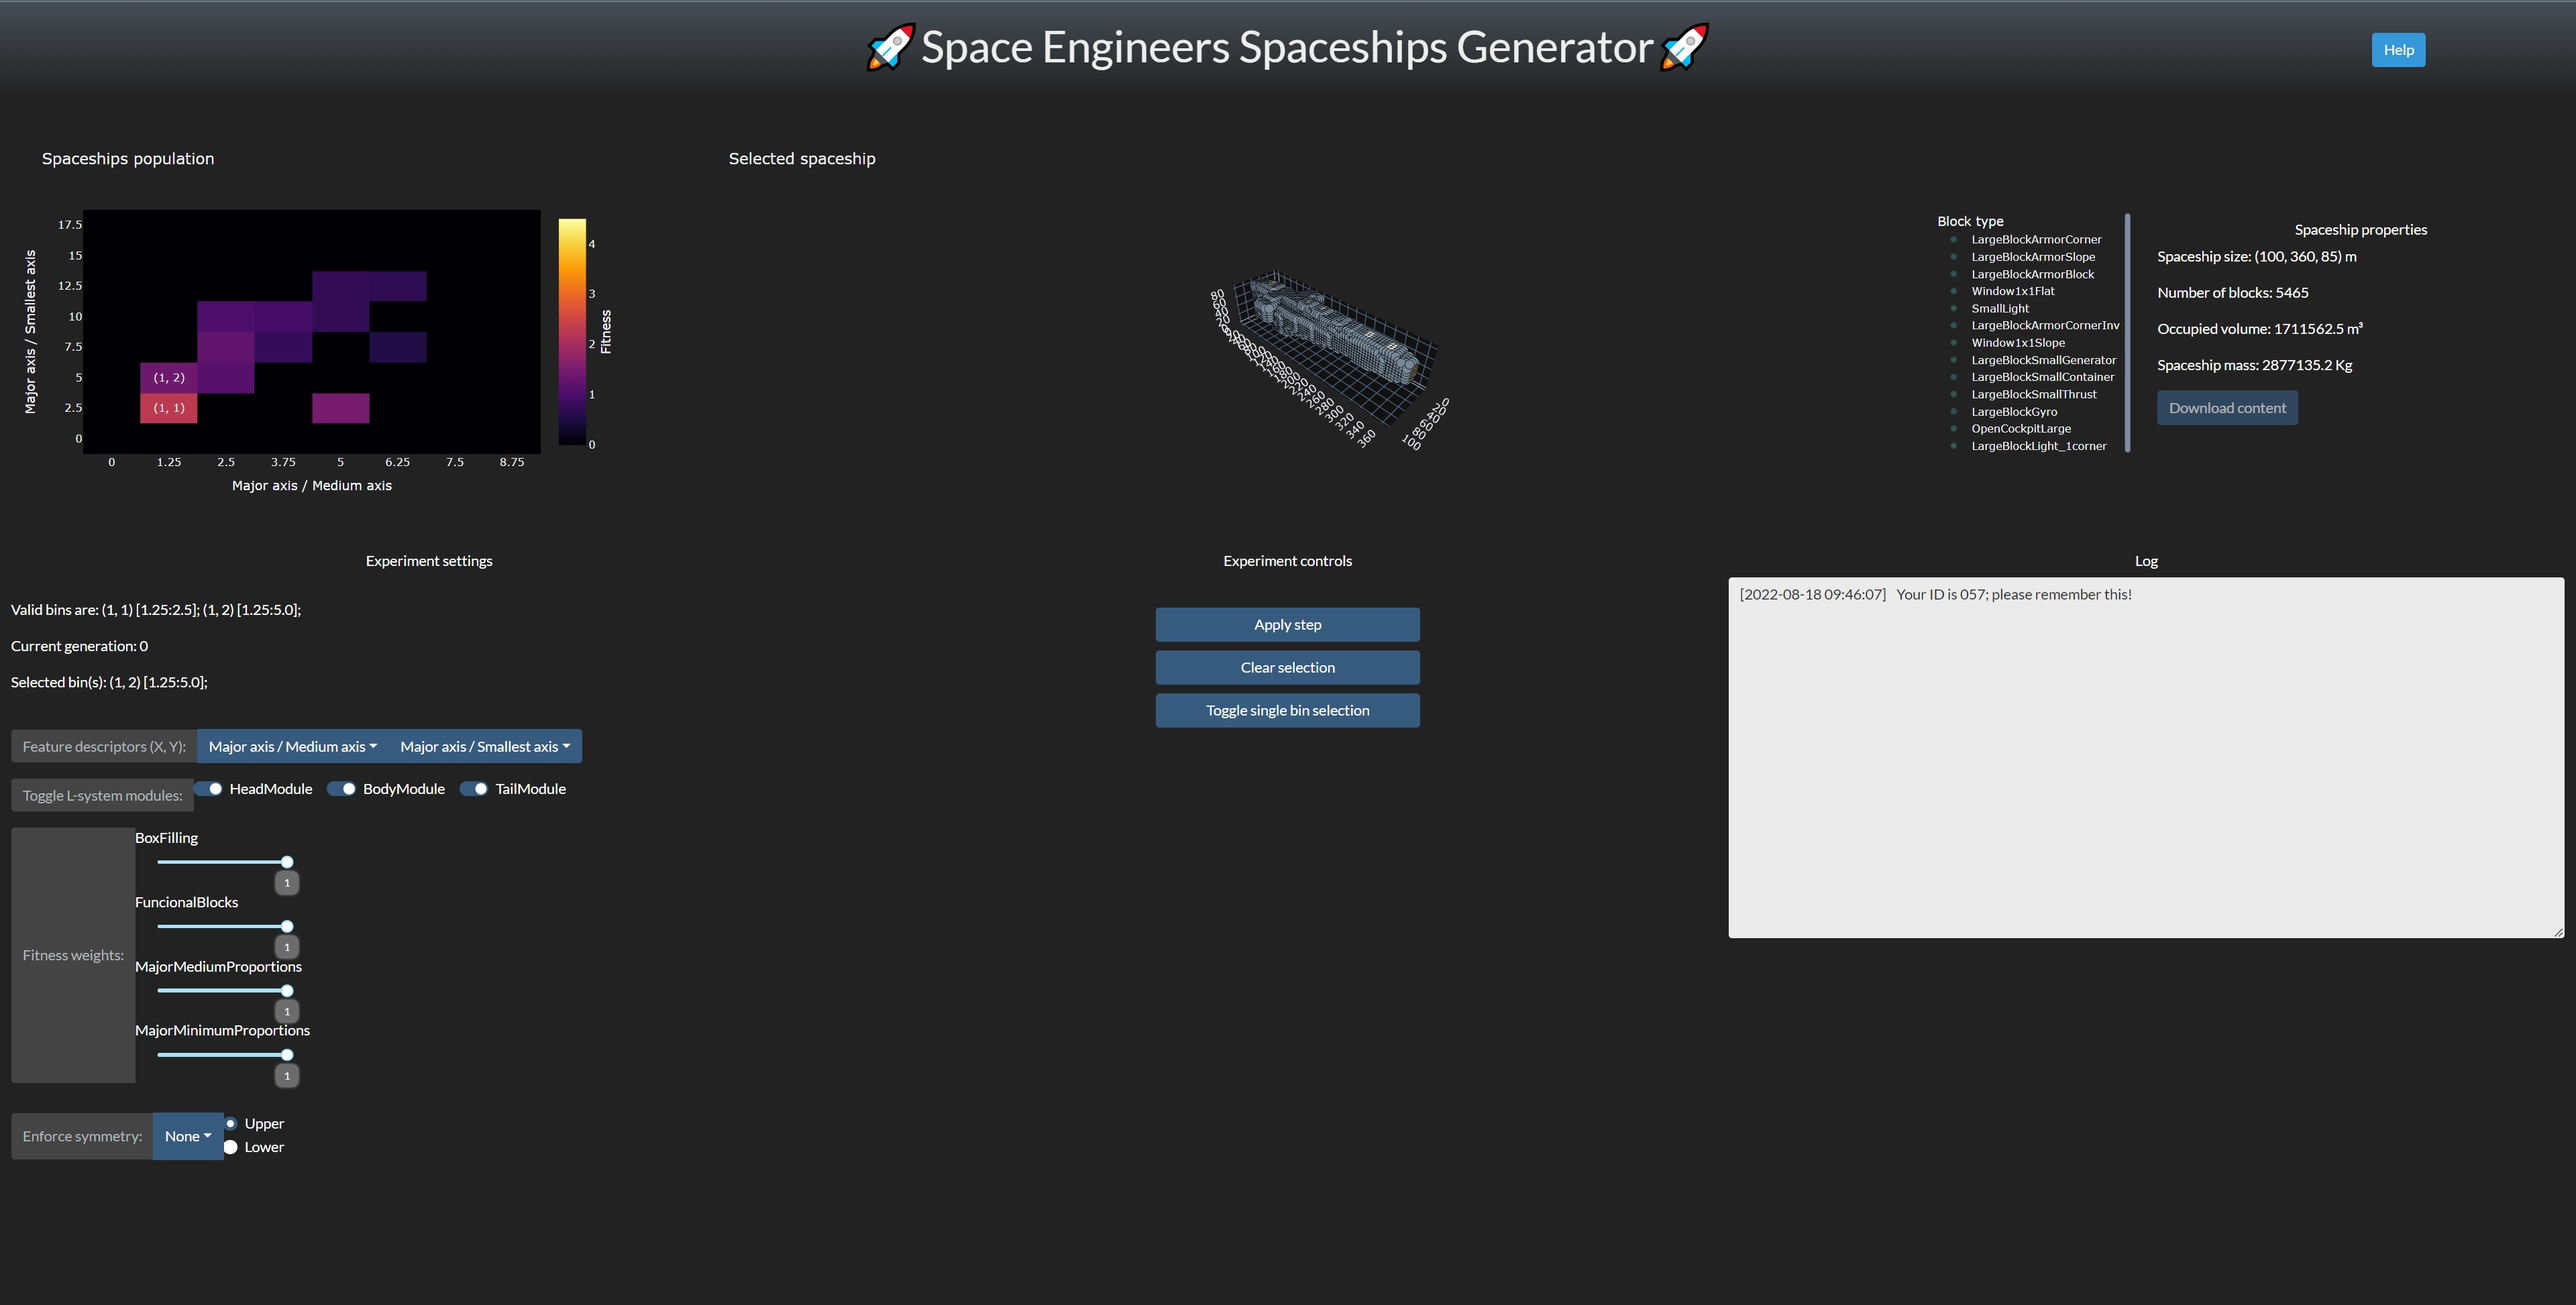
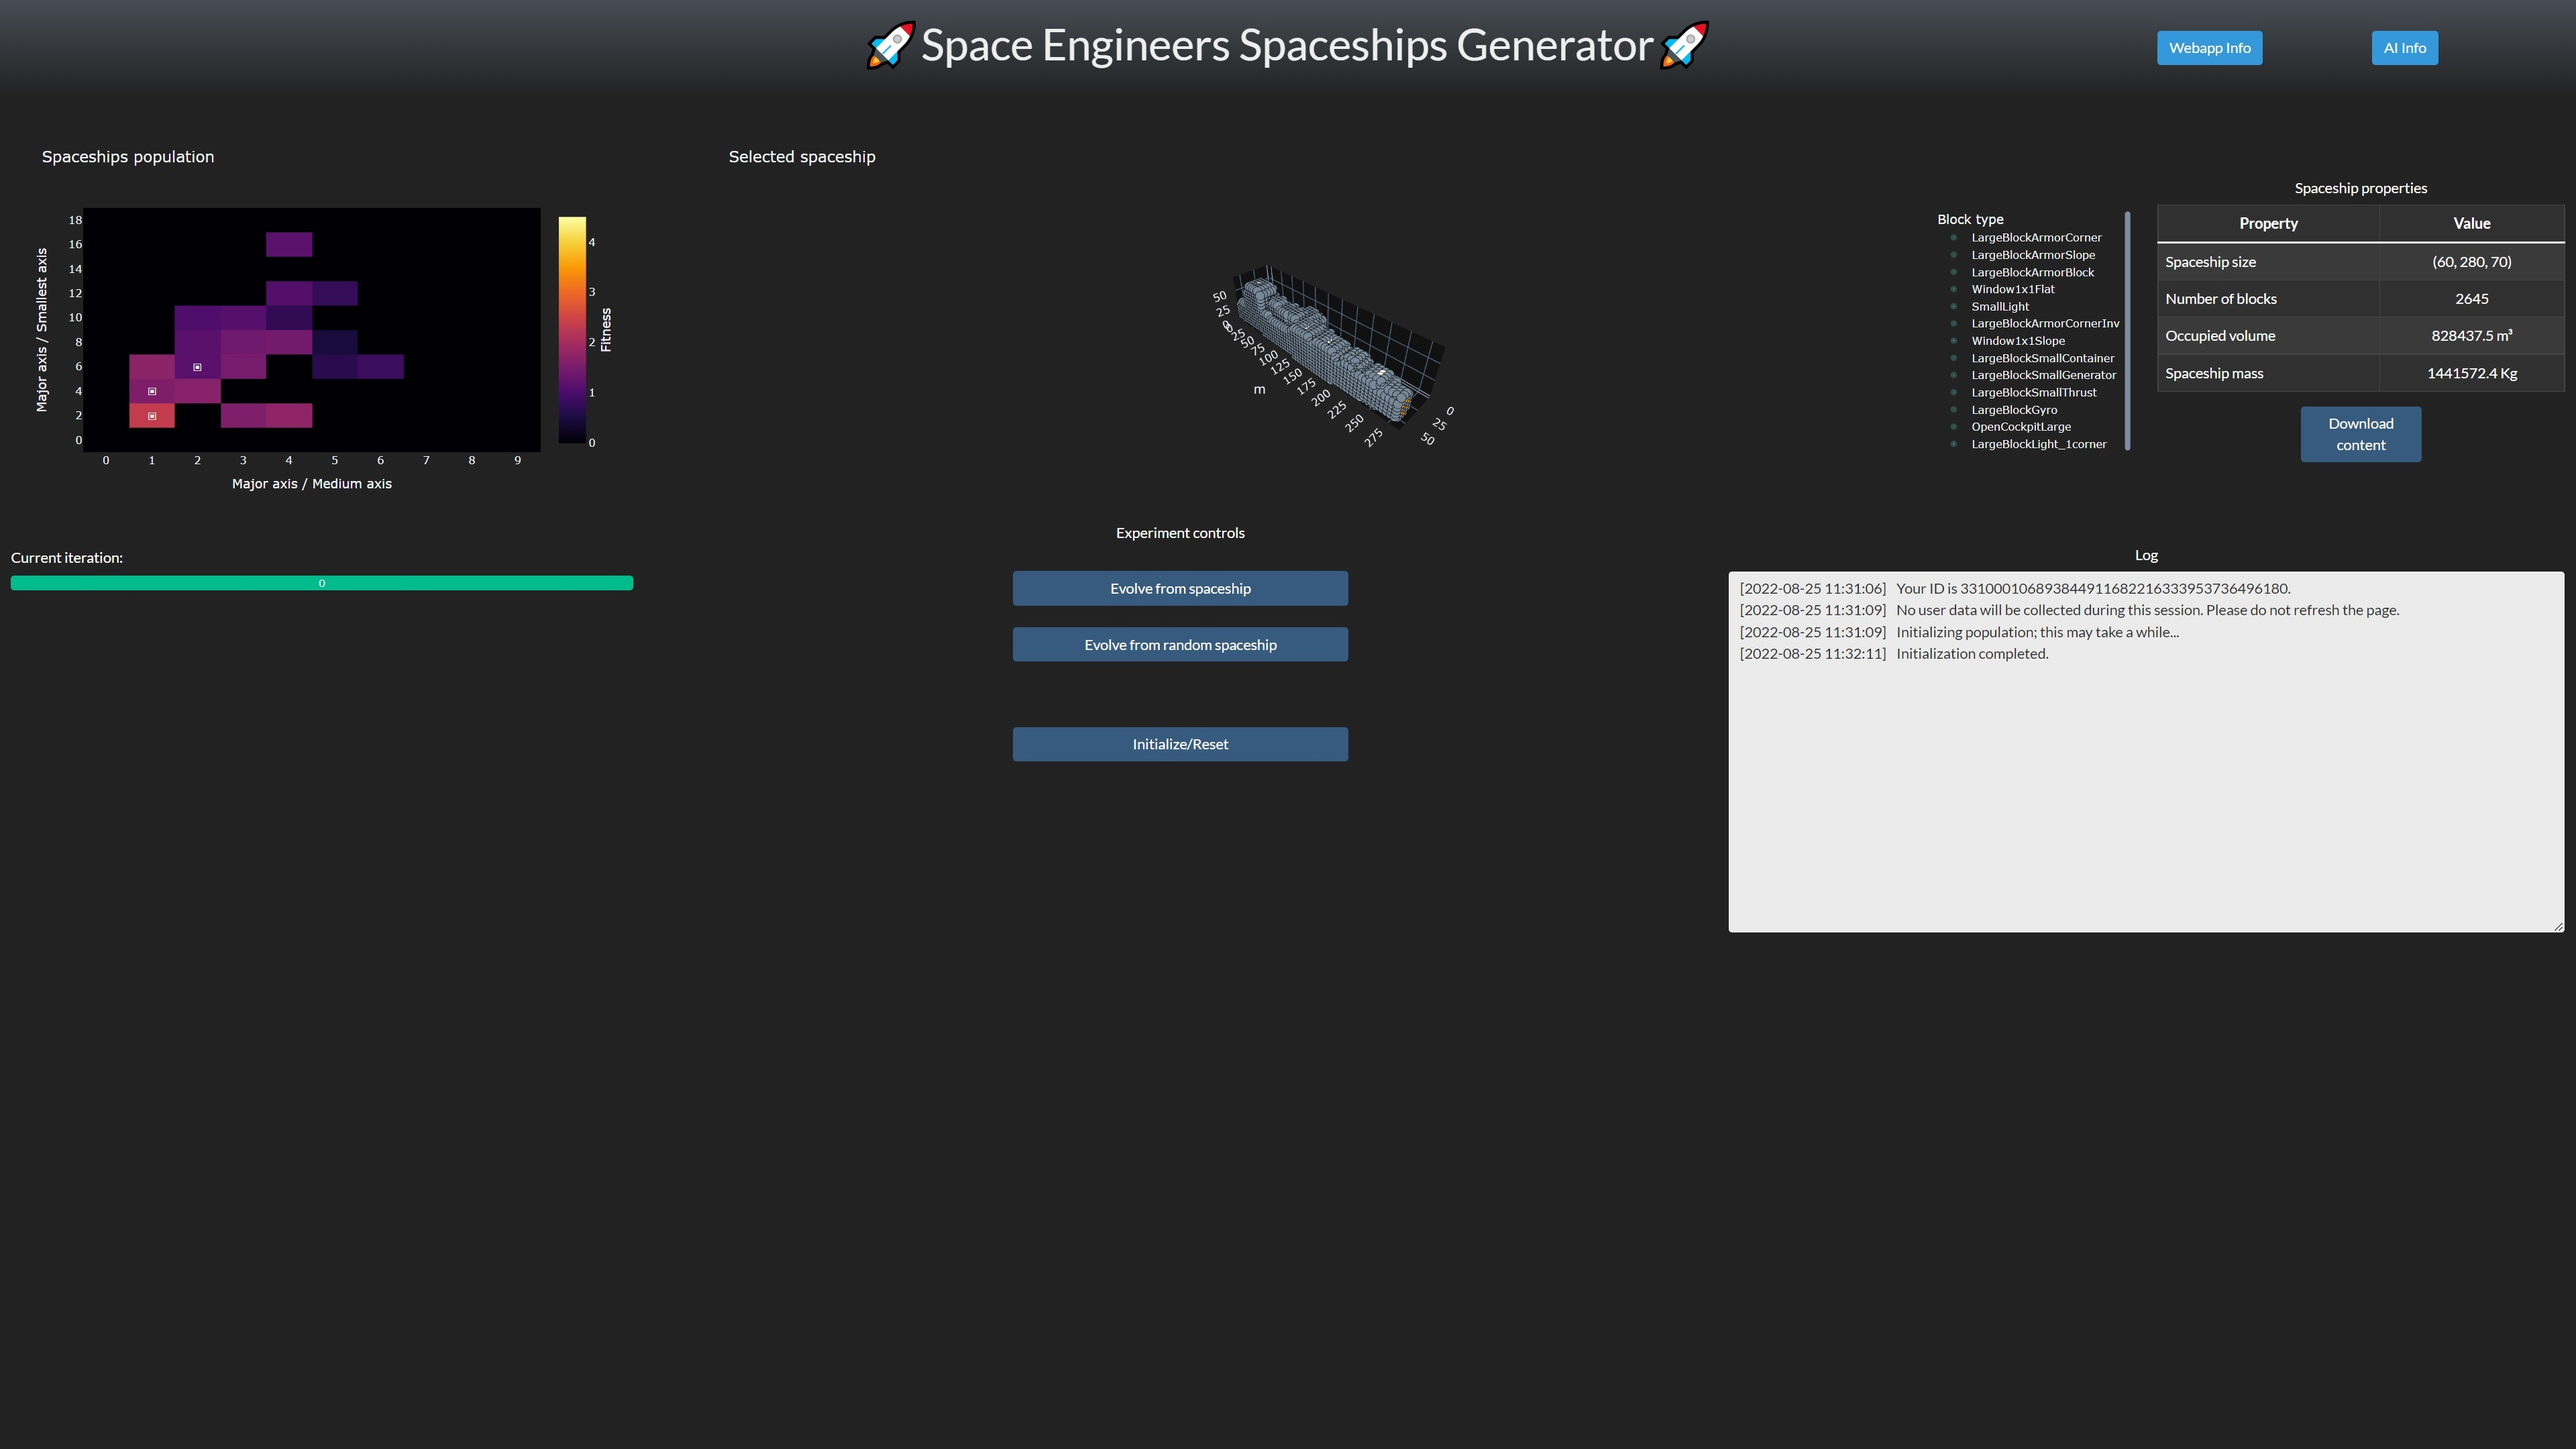
Update readme, webapp bugfix
Bugfix for the webapp in dev mode, update readme with webapps previews.

diff --git a/user-study/main_webapp_launcher.py b/user-study/main_webapp_launcher.py
@@ -8,10 +8,8 @@ if getattr(sys, 'frozen', False) and hasattr(sys, '_MEIPASS'):
     os.chdir(sys._MEIPASS)
 
 import argparse
-import random
 import webbrowser
 
-from pcgsepy.common.jsonifier import json_loads
 from pcgsepy.config import BIN_N
 from pcgsepy.evo.fitness import (Fitness, box_filling_fitness,
                                  func_blocks_fitness, mame_fitness,
@@ -24,7 +22,7 @@ from pcgsepy.mapelites.behaviors import (BehaviorCharacterization, avg_ma,
 from pcgsepy.setup_utils import get_default_lsystem, setup_matplotlib
 from pcgsepy.mapelites.buffer import Buffer, mean_merge
 from pcgsepy.mapelites.map import MAPElites
-from pcgsepy.mapelites.emitters import ContextualBanditEmitter, HumanEmitter
+from pcgsepy.mapelites.emitters import RandomEmitter
 from pcgsepy.nn.estimators import MLPEstimator
 
 
@@ -108,7 +106,7 @@ mapelites = MAPElites(lsystem=lsystem,
                       buffer=buffer,
                       behavior_descriptors=behavior_descriptors,
                       n_bins=BIN_N,
-                      emitter=HumanEmitter())
+                      emitter=RandomEmitter())
 
 set_callback_props(mapelites=mapelites)
 

diff --git a/pcgsepy/guis/main_webapp/webapp.py b/pcgsepy/guis/main_webapp/webapp.py
@@ -235,11 +235,13 @@ def set_app_layout(mapelites: Optional[MAPElites] = None,
     with open(quickstart_info_file, 'r', encoding='utf-8') as f:
         quickstart_info_str = f.read()
     
-    rngseed = uuid.uuid4().int
-    random.seed(rngseed)
-    random.shuffle(my_emitterslist)
     current_mapelites = mapelites
-    current_mapelites.emitter = _get_emitter()
+    
+    rngseed = uuid.uuid4().int
+    if not gdev_mode:
+        random.seed(rngseed)
+        random.shuffle(my_emitterslist)
+        current_mapelites.emitter = _get_emitter()
     
     logging.getLogger('webapp').info(msg=f'Your ID is {rngseed}.')
     
@@ -373,7 +375,8 @@ def set_app_layout(mapelites: Optional[MAPElites] = None,
                              color='success',
                              striped=False,
                              animated=False)],
-                     id='exp-progress-div')
+                     id='exp-progress-div',
+                     style={'visibility': 'hidden', 'height': '0px'} if gdev_mode else {})
         ])
     
     mapelites_heatmap = html.Div(children=[

diff --git a/README.md b/README.md
@@ -12,7 +12,9 @@
 Research code for the Space Engineers PCG project developed under the GoodAI research grant.
 
 ## Installation
-Create the executable file by running the `build_main_webapp.bat` file inside the `user-study` folder. The executable file (`Space Engineers PCG.exe`) will be created in the `user-study\dist` folder.
+The application can be built using the provided `.bat` files placed in the `user-study` folder. The executable files will be created in the `user-study\dist` folder.
+
+You can build just the main web application (running `build_main_webapp.bat`) or also the spaceships ranker (running `build_comparator.bat`). Keep in mind that the latter is used only for the user study.
 
 ### Modifiable files
 Some files can be modified before building the application. These are:
@@ -22,11 +24,31 @@ Some files can be modified before building the application. These are:
 - `hlrules`, `llrules`: these files define the expansion rules of the underlying L-system used in the application. `hlrules` determines the tile placements when creating spaceships, whereas `llrules` determines the game blocks used in a tile. If you want to add your own tiles in the application, please follow the instructions reported in `l-system\rules-extractor.ipynb` and remember to also update the `hl_atoms.json` file.
 
 ## How to use the webapp
+All modes of the webapps have a handy "*Info*" button, but the following is a quick overview of how they work.
+
+### Main webapp - user study mode
+<p align="center">
+  <img src="media/UI_userstudy_preview.jpg" alt="ui_userstudy_preview" height="300"/>
+</p>
+This mode is used during the user study and allows only to evolve spaceships after selecting a valid bin. The user study has a predefined number of generations (iterations) allowed and spans different configurations of the MAP-Elites emitter. At the end of the user study, the application automatically switches over to `user mode`.
+
+### Main webapp - user mode
 <p align="center">
   <img src="media/UI_usermode_preview.jpg" alt="ui_usermode_preview" height="300"/>
 </p>
+In this mode, the user is allowed to evolve spaceships indefinitely, choosing between evolving from the selected bin or running multiple steps of the random emitter at once. Additionally, the user is allowed to reset the population of solutions.
 
-_TODO: write this section of the README._
+### Main webapp - developer mode
+<p align="center">
+  <img src="media/UI_devmode_preview.jpg" alt="ui_devmode_preview" height="300"/>
+</p>
+This is the most advanced mode, giving the user full access to every part of the system that can be changed during the evolution process.
+
+### Ranker webapp
+<p align="center">
+  <img src="media/UI_comparator_preview.jpg" alt="ui_comparator_preview" height="300"/>
+</p>
+This webapp is used only for the user study and allows the user to upload and rank different spaceships.
 
 ## Development
 Install the `PCGSEPy` library by first installing the requirements:

diff --git a/user-study/README.md b/user-study/README.md
@@ -5,3 +5,5 @@ Notebooks used for final user study.
 The executable of the webapp can be built by running the `build_main_webapp.bat` file.
 
 The notebook `userstudy-simulation-ipynb` contains simulated data for the user study.
+
+The folder `dummy_results` contains four different spaceship files and fictitious metrics that can be used to quickly test the ranker webapp.
